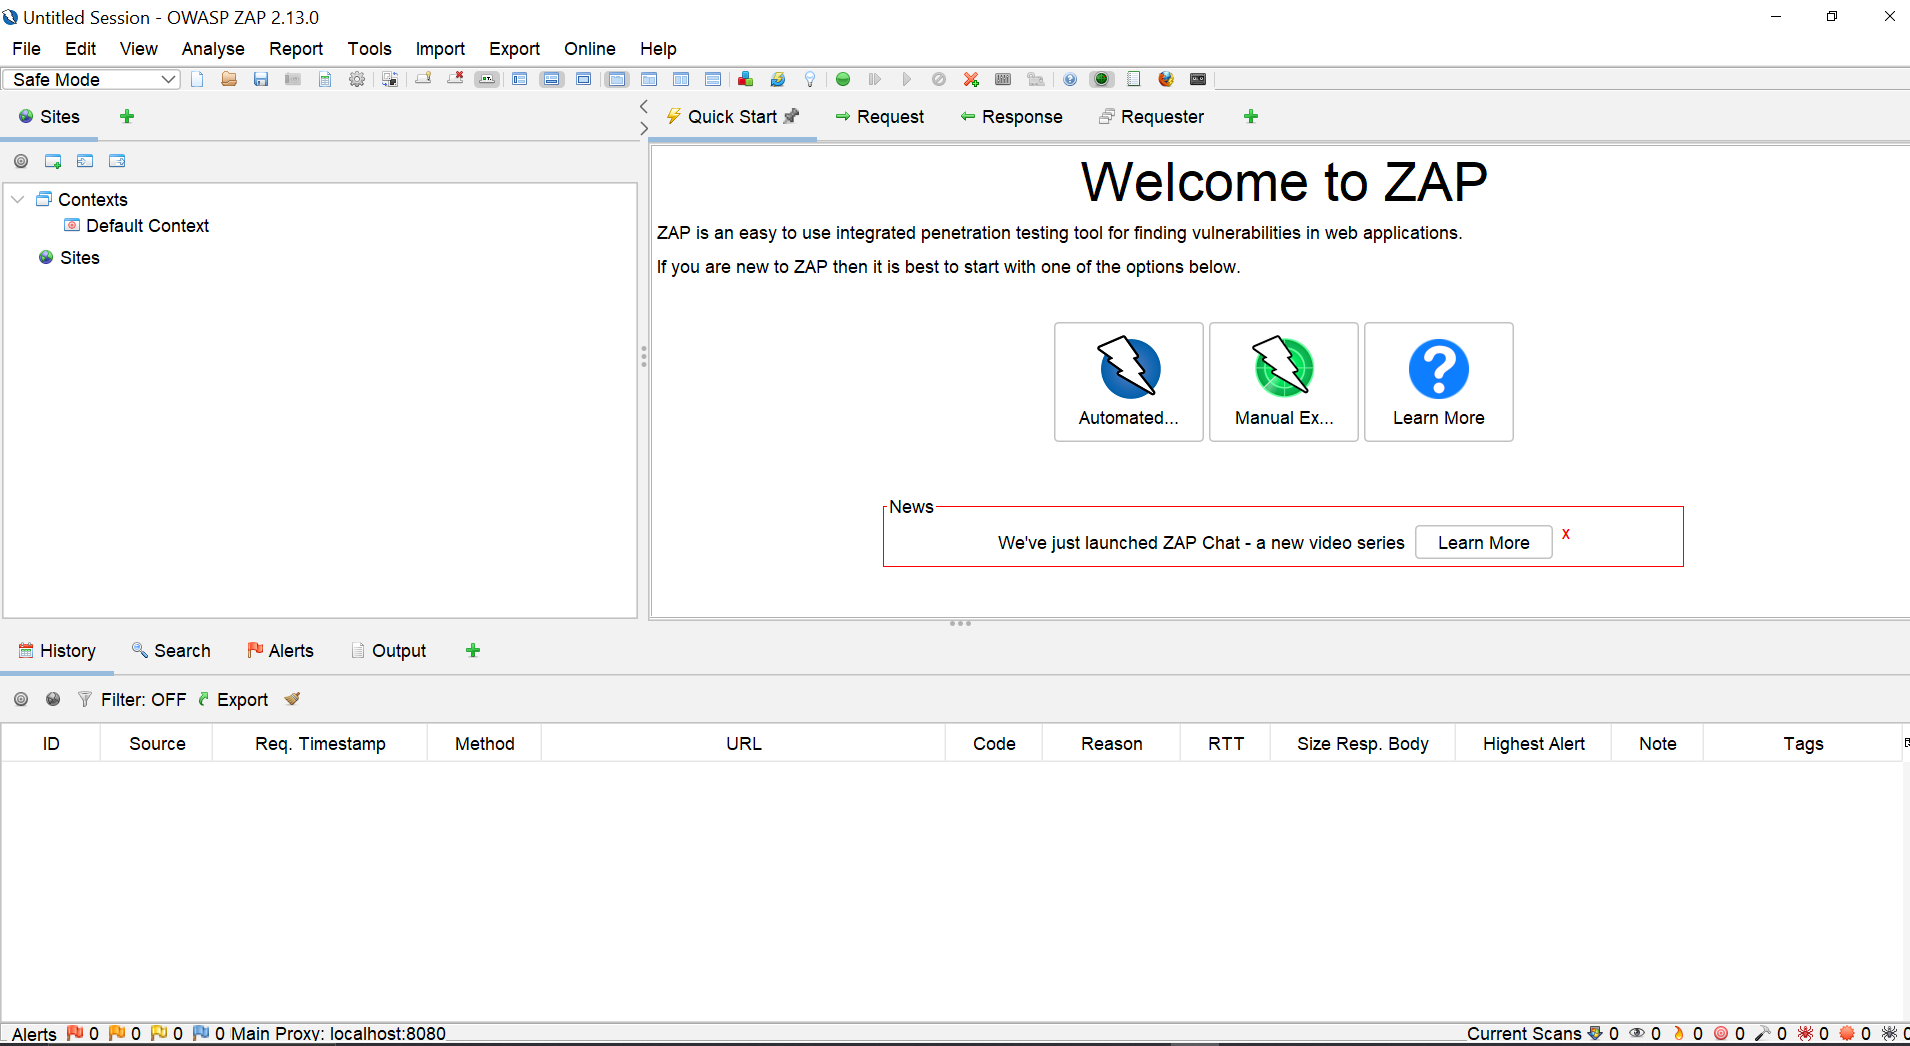
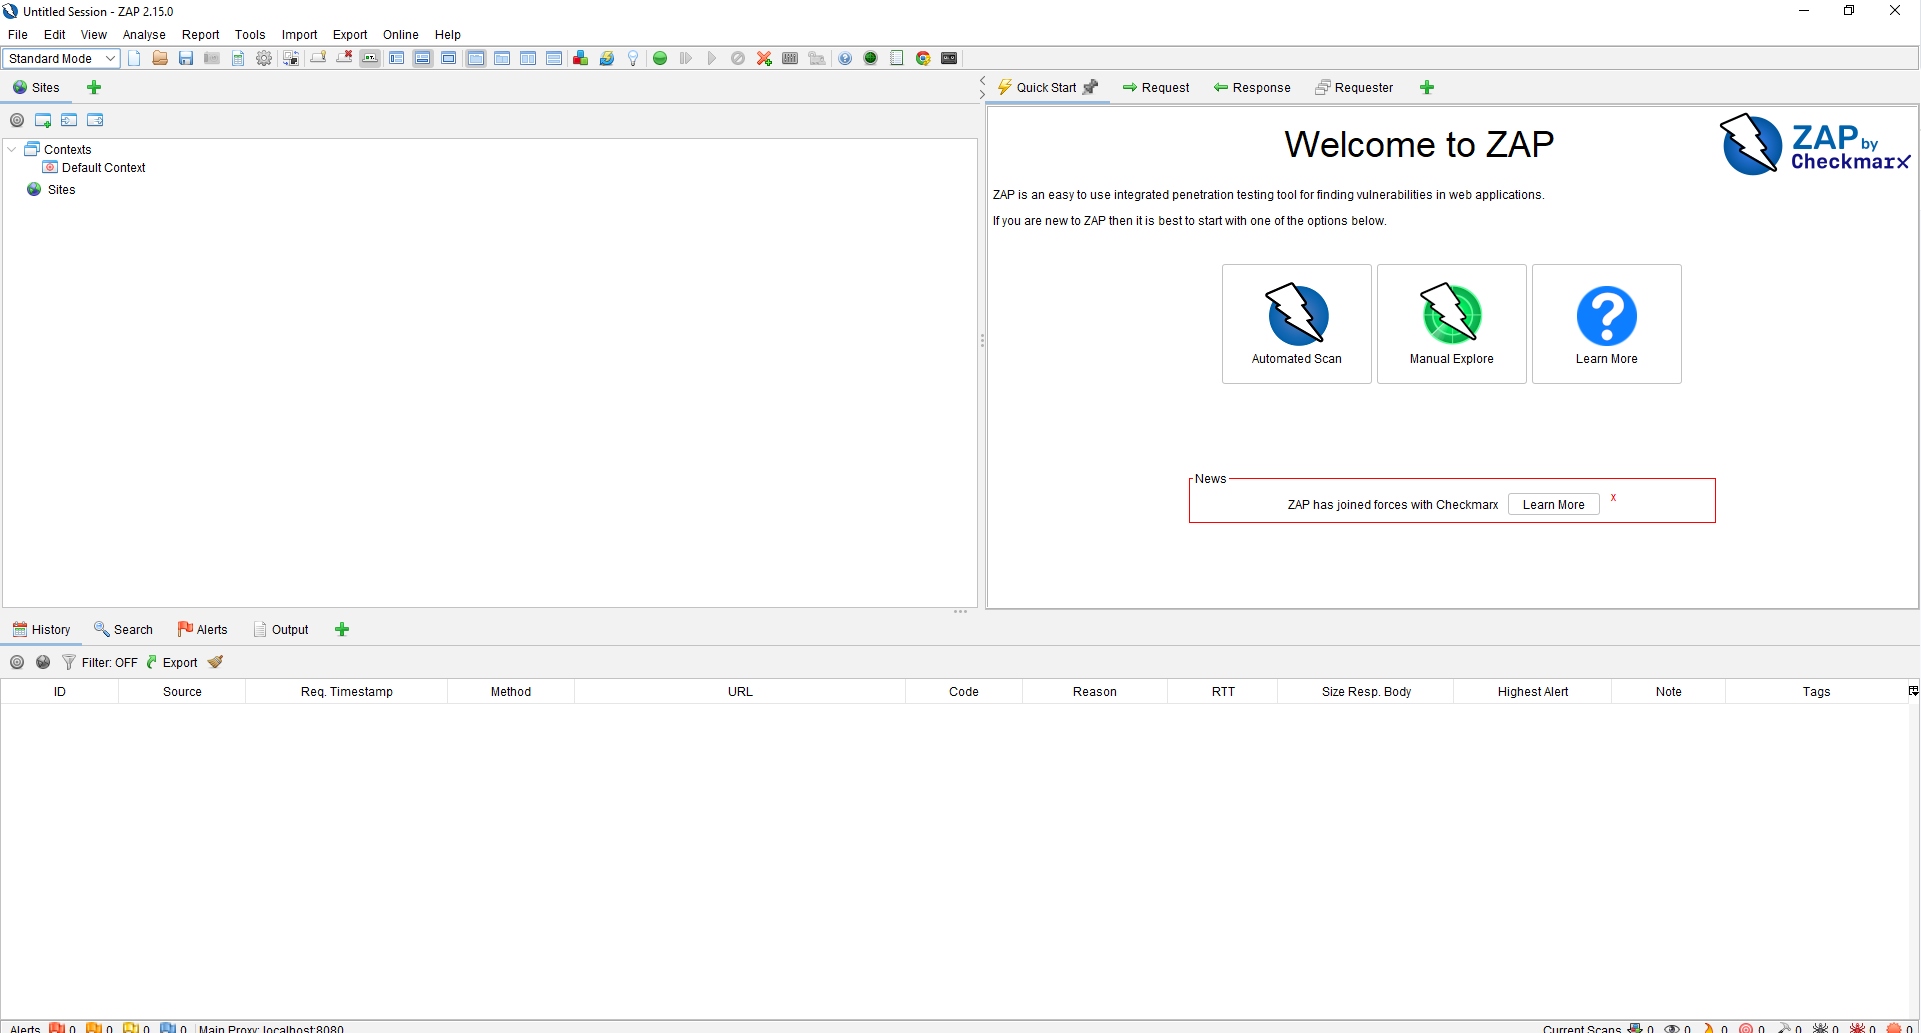
Updated the ZAP HUD tutorial documentation.

diff --git a/walkthroughs/zap/zaphud.md b/walkthroughs/zap/zaphud.md
@@ -17,18 +17,29 @@ Some of the benefits of using the HUD over one of the static scripts are:
 Zap HUD already has a good built-in tutorial for what features it supplies and some practices exercises on using various features it provides. 
 
 Rather than a feature by feature walkthrough this walkthrough will be how to access that tutorial.
-Note that any flags in that tutorial are not part of the (Hacker's Challenge)[https://www.saintcon.org/con-hackerschallenge/]
 
-#### Manual Explore
-From the ZAP home screen, chose the option "manual explore".  This will take to to a screen such as this:
+#### Reset
+
+If you have taken the tutorial before or are on a shared computer where someone else has taken it before you will need to reset the tutorial by:
+
+1. Open the "Options" menu
+2. Select "HUD"
+3. Click "Reset tutorial task"
+
+![](/static/zap/Reset.png)
+
+#### Starting the tutorial
+
+##### Manual Explore
+From the ZAP Quick Start screen, choose the option "Manual explore".  This will take to to a screen such as this:
 ![](/static/zap/manual-explore.png)
 
-##### Setup
+
 
 ###### URL to Explore
 For URL to explore you will want to use the URL of a test site you have permission to access, never a third party or production site.
 
-Anything running on your local host, such as the [SAINTCON 2023 AppSec challenge app](https://appsec.saintcon.community/challenge) or [Juice Shop](https://owasp.org/www-project-juice-shop/), should be fine.
+Anything running on your local host, such as [Juice Shop](https://owasp.org/www-project-juice-shop/), should be fine.
 
 ###### Other Options
 Choose "Enable HUD".
@@ -39,13 +50,8 @@ We recommend one that allows test automation, such as Chrome.
 This will open up the Zap HUD:
 ![](/static/zap/HUD-start.png)
 
-##### Tutorial
-If you have never opened the HUD before you can select "Take the tutorial" rather than "Continue to your target".
+Select "Take the tutorial" rather than "Continue to your target".
 
-If you have taken the tutorial before or are on a shared computer where someone else has taken it before you can reset the tutorial by:
+This tutorial will walk you through the HUD and have you perform a couple of flag captures.  While the flags are not used in the Hacker's Challenge they are a good introduction into how to capture flags.
 
-Open the HUD settings
-![](/static/zap/HUD-menu.png)
 
-From here you can choose to reset the tutorial:
-![](/static/zap/HUD-menu-retake-tutorial.png)

diff --git a/walkthroughs/zap.md b/walkthroughs/zap.md
@@ -9,10 +9,13 @@ order: 100
 ## Zap
 [Zap](https://www.zaproxy.org/) is a Dynamic Application Security Testing (DAST) tool for web applications.  It allows for both scripted and interactive scanning.
 
-Zap was originally an [OWASP](https://owasp.org/) project.  It is currently in transition to be part of the [Software Security Project](https://softwaresecurityproject.org/blog/welcoming-zap-to-the-software-security-project/)
+Zap was originally an [OWASP](https://owasp.org/) project.  When Checkmarx [hired all of the lead developers](https://www.zaproxy.org/blog/2024-09-24-zap-has-joined-forces-with-checkmarx/) it has been rebranded "ZAP by Checkmarx".
+
+### Installing
+You can download ZAP from [www.zaproxy.org](www.zaproxy.org) and requires Java 11 or higer to run.
 
 ### Starting up
-when you start ZAP you will get a screen like this:
+When you start ZAP you will get a screen like this:
 ![](/static/zap/startup.png)
 
 For now let's not persist our session:
